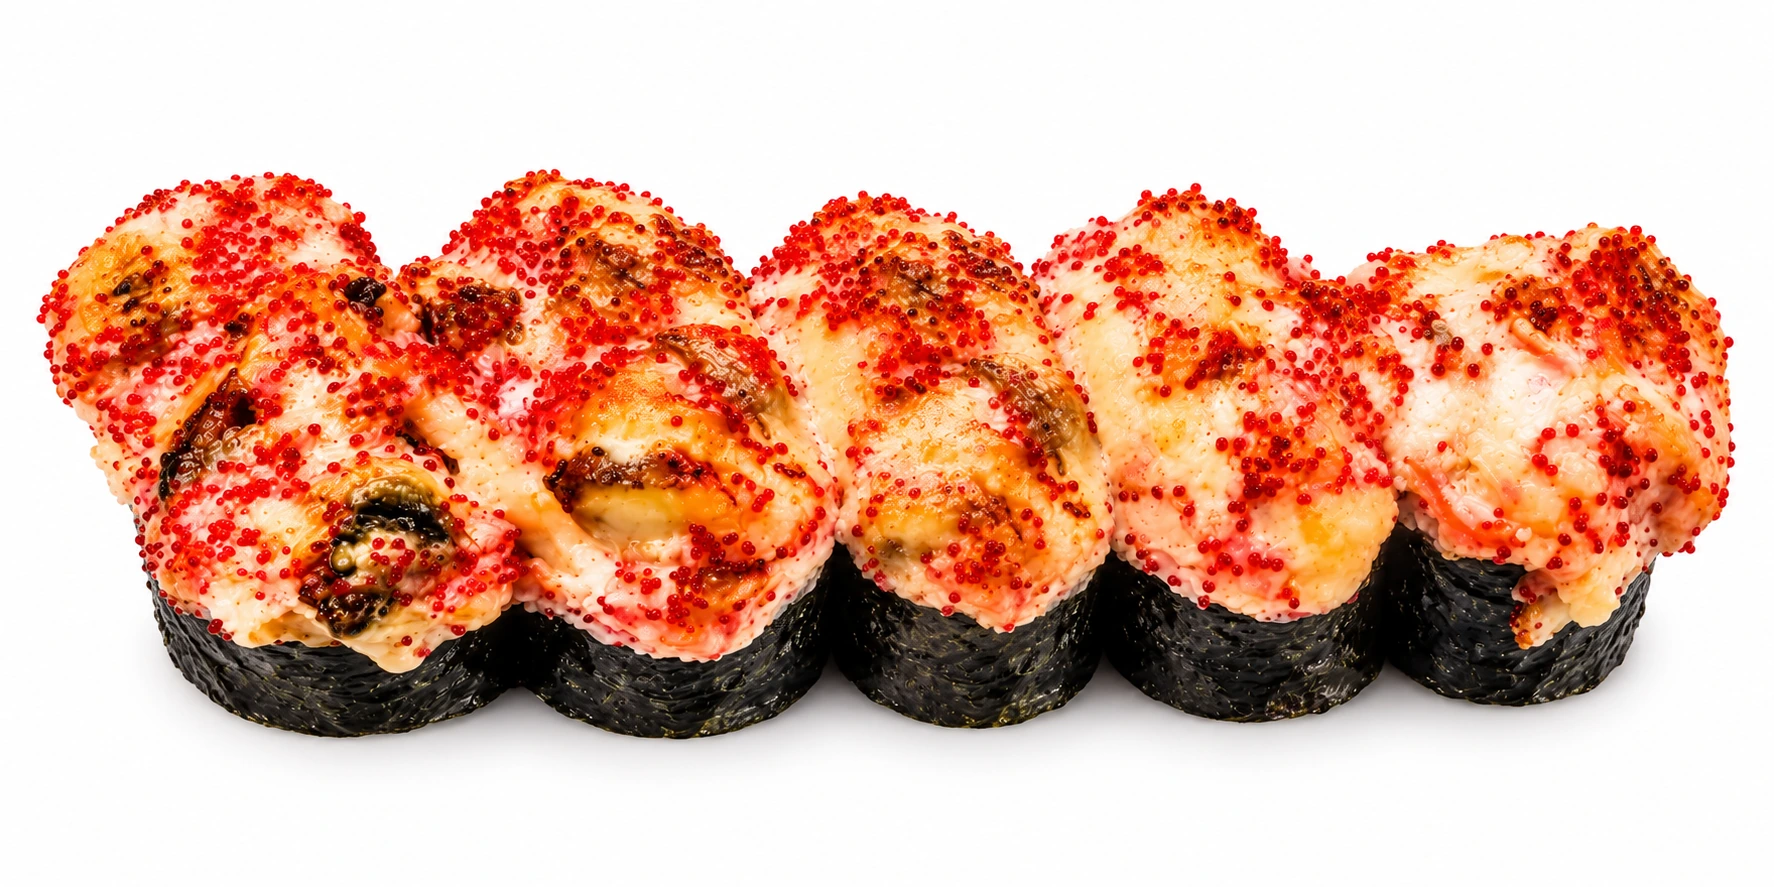
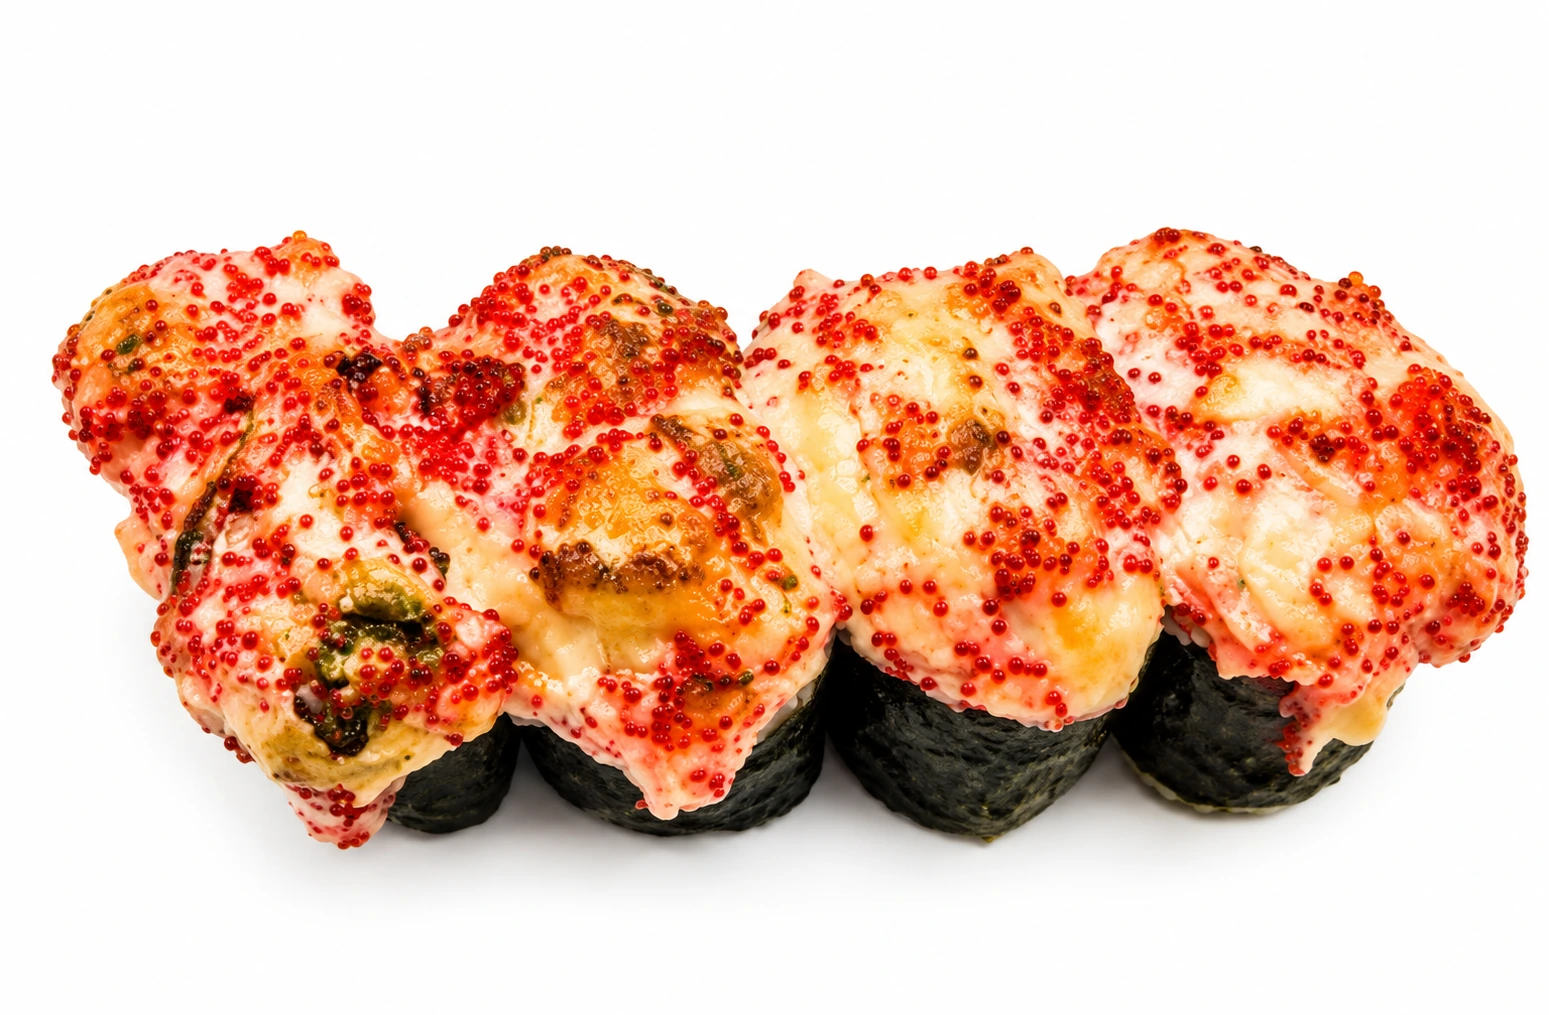
Correct sushi grill serving image

diff --git a/app.js b/app.js
@@ -172,12 +172,12 @@
   function deliveryCost(){return fulfillment()==='pickup'||subtotal()>=990||subtotal()===0?0:200}
   function productById(id){return products.find(function(p){return p.id===id})}
   function renderCategories(){els.categories.innerHTML=categories.map(function(cat){return '<button type="button" class="category-pill'+(cat===state.category?' active':'')+'" data-category="'+escapeHtml(cat)+'">'+escapeHtml(cat)+'</button>'}).join('')}
-  function renderProducts(){var filtered=products.filter(function(p){var q=state.search.trim().toLocaleLowerCase('ru');var matchesCategory=!!q||state.category==='Все меню'||p.category===state.category;var matchesSearch=!q||(p.name+' '+p.description+' '+p.category).toLocaleLowerCase('ru').indexOf(q)>=0;return matchesCategory&&matchesSearch});els.title.textContent=state.search?'Результаты':state.category;els.count.textContent=filtered.length+' поз.';if(!filtered.length){els.grid.innerHTML='<div class="empty-state">Ничего не найдено. Попробуйте другое название.</div>';return}els.grid.innerHTML=filtered.map(function(p){var redrawn=!!redrawnProductIds[p.id];var stem='assets/dishes/'+p.id,photo=stem+(redrawn?'-redrawn':'')+'.webp?v=20261021sushigrill1',fallback=stem+(redrawn?'-redrawn.png':'.jpg');return '<article class="product-card"><div class="product-visual"><img class="product-photo" src="'+photo+'" data-image-fallback="'+fallback+'" alt="'+escapeHtml(p.name)+'" loading="lazy"></div>'+(p.tag?'<span class="card-tag">'+escapeHtml(p.tag)+'</span>':'')+'<h3>'+escapeHtml(p.name)+'</h3>'+(p.description?'<p>'+escapeHtml(p.description)+'</p>':'')+'<div class="product-bottom"><span class="product-price">'+money(p.price)+'<small class="product-weight">'+escapeHtml(p.weight)+'</small></span><span class="product-quantity"><button class="add-button quantity-minus" type="button" data-id="'+p.id+'" data-step="-1" aria-label="Уменьшить количество '+escapeHtml(p.name)+'"'+(quantity(p.id)?'':' hidden')+'>−</button><b class="quantity-value"'+(quantity(p.id)?'':' hidden')+'>'+quantity(p.id)+'</b><button class="add-button" type="button" data-add="'+p.id+'" aria-label="Добавить '+escapeHtml(p.name)+' в корзину">+</button></span></div></article>'}).join('')}
+  function renderProducts(){var filtered=products.filter(function(p){var q=state.search.trim().toLocaleLowerCase('ru');var matchesCategory=!!q||state.category==='Все меню'||p.category===state.category;var matchesSearch=!q||(p.name+' '+p.description+' '+p.category).toLocaleLowerCase('ru').indexOf(q)>=0;return matchesCategory&&matchesSearch});els.title.textContent=state.search?'Результаты':state.category;els.count.textContent=filtered.length+' поз.';if(!filtered.length){els.grid.innerHTML='<div class="empty-state">Ничего не найдено. Попробуйте другое название.</div>';return}els.grid.innerHTML=filtered.map(function(p){var redrawn=!!redrawnProductIds[p.id];var stem='assets/dishes/'+p.id,photo=stem+(redrawn?'-redrawn':'')+'.webp?v=20261021sushigrill2',fallback=stem+(redrawn?'-redrawn.png':'.jpg');return '<article class="product-card"><div class="product-visual"><img class="product-photo" src="'+photo+'" data-image-fallback="'+fallback+'" alt="'+escapeHtml(p.name)+'" loading="lazy"></div>'+(p.tag?'<span class="card-tag">'+escapeHtml(p.tag)+'</span>':'')+'<h3>'+escapeHtml(p.name)+'</h3>'+(p.description?'<p>'+escapeHtml(p.description)+'</p>':'')+'<div class="product-bottom"><span class="product-price">'+money(p.price)+'<small class="product-weight">'+escapeHtml(p.weight)+'</small></span><span class="product-quantity"><button class="add-button quantity-minus" type="button" data-id="'+p.id+'" data-step="-1" aria-label="Уменьшить количество '+escapeHtml(p.name)+'"'+(quantity(p.id)?'':' hidden')+'>−</button><b class="quantity-value"'+(quantity(p.id)?'':' hidden')+'>'+quantity(p.id)+'</b><button class="add-button" type="button" data-add="'+p.id+'" aria-label="Добавить '+escapeHtml(p.name)+' в корзину">+</button></span></div></article>'}).join('')}
   function renderDock(){var count=cartCount(),badge=document.getElementById('cartBadge'),dock=document.getElementById('cartDock');badge.hidden=count===0;badge.textContent=count;document.getElementById('drawerCartCount').textContent=count?count+' '+plural(count,['товар','товара','товаров']):'Пусто';dock.hidden=count===0;document.body.classList.toggle('cart-visible',count>0);document.getElementById('dockCartCount').textContent=count+' '+plural(count,['товар','товара','товаров']);document.getElementById('dockCartTotal').textContent=money(subtotal())}
   function plural(n,forms){var a=n%10,b=n%100;return forms[(b>=11&&b<=14)?2:(a===1?0:(a>=2&&a<=4?1:2))]}
   function updatePersonOptions(sub){var select=document.getElementById('personsSelect');if(!select)return;var max=sub>1000?10:4,current=Number(select.value)||1;select.innerHTML=Array.from({length:max},function(_,i){return '<option value="'+(i+1)+'">'+(i+1)+' '+plural(i+1,['персона','персоны','персон'])+'</option>'}).join('');select.value=String(Math.min(current,max));}
   function renderCart(){var lines=Object.keys(state.cart).map(function(id){var p=productById(id);if(!p||!quantity(id))return '';return '<div class="cart-row"><div><h3>'+escapeHtml(p.name)+'</h3><small>'+money(p.price)+' · '+escapeHtml(p.weight)+'</small></div><div class="quantity-control"><button type="button" data-step="-1" data-id="'+p.id+'" aria-label="Уменьшить">−</button><span>'+quantity(id)+'</span><button type="button" data-step="1" data-id="'+p.id+'" aria-label="Добавить">+</button></div><strong class="row-price">'+money(p.price*quantity(id))+'</strong></div>'}).join('');document.getElementById('cartItems').innerHTML=lines||'<div class="empty-state">Корзина пока пуста</div>';var sub=subtotal(),ship=sub>=990?0:200;updatePersonOptions(sub);document.getElementById('subtotal').textContent=money(sub);document.getElementById('deliveryCost').textContent=fulfillment()==='pickup'||sub===0?'0 ₽':(ship===0?'Бесплатно':money(ship));document.getElementById('grandTotal').textContent=money(sub+deliveryCost());document.getElementById('checkoutTotal').textContent=money(sub+deliveryCost());document.getElementById('shippingNote').textContent=fulfillment()==='pickup'?'Самовывоз: ул. Некрасова, 59. Минимальной суммы заказа нет.':sub>=990?'Доставка бесплатная — корзина от 990 ₽.':'Добавьте ещё на '+money(990-sub)+' для бесплатной доставки. Доставка сейчас — 200 ₽.';document.getElementById('toCheckout').disabled=sub===0;}
-  function renderSheets(){if(!els.sheets.dataset.ready){els.sheets.innerHTML=menuSheets.map(function(sheet,index){return '<button class="menu-sheet-card" type="button" data-sheet="'+index+'"><span class="menu-sheet-frame"><img src="'+sheet.file+'?v=20261021sushigrill1" data-image-fallback="'+sheet.file.replace(/\.jpg$/i,'.png')+'" alt="'+escapeHtml(sheet.alt)+'" loading="lazy"></span><span class="menu-sheet-caption"><b>'+escapeHtml(sheet.title)+'</b><small>Открыть лист меню ↗</small></span></button>'}).join('');els.sheets.dataset.ready='true'}els.grid.hidden=state.view==='sheets';els.sheets.hidden=state.view!=='sheets';document.querySelector('.results-line').hidden=false;if(state.view==='sheets'){els.title.textContent='Все листы меню';els.count.textContent=menuSheets.length+' фото'}}
+  function renderSheets(){if(!els.sheets.dataset.ready){els.sheets.innerHTML=menuSheets.map(function(sheet,index){return '<button class="menu-sheet-card" type="button" data-sheet="'+index+'"><span class="menu-sheet-frame"><img src="'+sheet.file+'?v=20261021sushigrill2" data-image-fallback="'+sheet.file.replace(/\.jpg$/i,'.png')+'" alt="'+escapeHtml(sheet.alt)+'" loading="lazy"></span><span class="menu-sheet-caption"><b>'+escapeHtml(sheet.title)+'</b><small>Открыть лист меню ↗</small></span></button>'}).join('');els.sheets.dataset.ready='true'}els.grid.hidden=state.view==='sheets';els.sheets.hidden=state.view!=='sheets';document.querySelector('.results-line').hidden=false;if(state.view==='sheets'){els.title.textContent='Все листы меню';els.count.textContent=menuSheets.length+' фото'}}
   function renderViewTabs(){document.querySelectorAll('[data-view]').forEach(function(button){var active=button.dataset.view===state.view;button.classList.toggle('active',active);button.setAttribute('aria-selected',active?'true':'false')})}
   function render(){renderCategories();renderProducts();renderSheets();renderViewTabs();renderDock();if(!els.overlay.hidden)renderCart()}
   function add(id,step){var next=quantity(id)+(step||1);if(next<=0)delete state.cart[id];else state.cart[id]=next;saveCart();render();if(els.overlay.hidden)toast('Добавили в корзину')}
@@ -216,7 +216,7 @@
   function setFulfillment(){var pickup=fulfillment()==='pickup',address=document.getElementById('deliveryAddressInput');document.getElementById('addressField').hidden=pickup;address.required=!pickup;if(pickup)address.setCustomValidity('');document.getElementById('pickupAddress').hidden=!pickup;fillSlots();renderCart()}
   function initDeliveryAddressSuggestions(){var input=document.getElementById('deliveryAddressInput'),hint=document.getElementById('deliveryAddressHint'),config=window.SAKURA_MAPS_CONFIG||{};if(!input)return;input.addEventListener('input',function(){input.dataset.addressSuggestion='';input.setCustomValidity('')});if(!config.yandexApiKey||!config.yandexSuggestApiKey){hint.textContent='Подсказки Яндекс Карт включатся после добавления ключей в maps-config.js.';return}window.sakuraYandexSuggestReady=function(ymaps){ymaps.ready(function(){var suggest=new ymaps.SuggestView(input,{results:6,boundedBy:[[50.58,38.62],[50.69,38.78]]});suggest.events.add('select',function(e){var item=e.get('item'),value=item&&item.value?String(item.value):'';if(!/алексеевка/i.test(value))value='Алексеевка, '+value;input.value=value;input.dataset.addressSuggestion='yandex';input.setCustomValidity('')});hint.textContent='Начните вводить улицу и дом в Алексеевке, затем выберите подсказку.'})};var script=document.createElement('script');script.src='https://api-maps.yandex.ru/2.1/?lang=ru_RU&load=SuggestView&apikey='+encodeURIComponent(config.yandexApiKey)+'&suggest_apikey='+encodeURIComponent(config.yandexSuggestApiKey)+'&onload=sakuraYandexSuggestReady';script.async=true;script.onerror=function(){hint.textContent='Не удалось загрузить подсказки адресов. Укажите город, улицу и дом вручную.'};document.head.appendChild(script)}
   document.addEventListener('error',function(e){var img=e.target;if(img&&img.tagName==='IMG'&&img.dataset.imageFallback&&!img.dataset.imageFallbackTried){img.dataset.imageFallbackTried='true';img.src=img.dataset.imageFallback}},true);
-  document.addEventListener('click',function(e){var cat=e.target.closest('[data-category]');if(cat){state.category=cat.dataset.category;state.view='products';render();return}var view=e.target.closest('[data-view]');if(view){state.view=view.dataset.view;render();return}var sheet=e.target.closest('[data-sheet]');if(sheet){var selected=menuSheets[Number(sheet.dataset.sheet)];if(selected){els.largeImage.dataset.imageFallback=selected.file.replace(/\.jpg$/i,'.png');delete els.largeImage.dataset.imageFallbackTried;els.largeImage.src=selected.file+'?v=20261021sushigrill1';els.largeImage.alt=selected.alt;els.imageViewer.hidden=false;document.body.classList.add('modal-open')}return}if(e.target.closest('#closeImageViewer')||e.target===els.imageViewer){els.imageViewer.hidden=true;els.largeImage.removeAttribute('src');els.largeImage.removeAttribute('data-image-fallback');delete els.largeImage.dataset.imageFallbackTried;document.body.classList.remove('modal-open');return}var addButton=e.target.closest('[data-add]');if(addButton){add(addButton.dataset.add,1);return}var step=e.target.closest('[data-step]');if(step){add(step.dataset.id,Number(step.dataset.step));return}if(e.target.closest('#openCart')){showCart();return}if(e.target.closest('#closeSheet')||e.target===els.overlay){closeCart();return}if(e.target.closest('#toCheckout')){if(!cartCount())return;els.cartView.hidden=true;els.checkoutView.hidden=false;fillCheckoutProfile();fillSlots();renderCart();return}if(e.target.closest('#backToCart')){els.checkoutView.hidden=true;els.cartView.hidden=false;renderCart();return}var legal=e.target.closest('[data-legal]');if(legal){e.preventDefault();toast('Текст '+(legal.dataset.legal==='policy'?'политики':'оферты')+' нужно утвердить перед запуском');return}if(e.target.closest('#locationButton'))toast('Зона обслуживания: Алексеевка')});
+  document.addEventListener('click',function(e){var cat=e.target.closest('[data-category]');if(cat){state.category=cat.dataset.category;state.view='products';render();return}var view=e.target.closest('[data-view]');if(view){state.view=view.dataset.view;render();return}var sheet=e.target.closest('[data-sheet]');if(sheet){var selected=menuSheets[Number(sheet.dataset.sheet)];if(selected){els.largeImage.dataset.imageFallback=selected.file.replace(/\.jpg$/i,'.png');delete els.largeImage.dataset.imageFallbackTried;els.largeImage.src=selected.file+'?v=20261021sushigrill2';els.largeImage.alt=selected.alt;els.imageViewer.hidden=false;document.body.classList.add('modal-open')}return}if(e.target.closest('#closeImageViewer')||e.target===els.imageViewer){els.imageViewer.hidden=true;els.largeImage.removeAttribute('src');els.largeImage.removeAttribute('data-image-fallback');delete els.largeImage.dataset.imageFallbackTried;document.body.classList.remove('modal-open');return}var addButton=e.target.closest('[data-add]');if(addButton){add(addButton.dataset.add,1);return}var step=e.target.closest('[data-step]');if(step){add(step.dataset.id,Number(step.dataset.step));return}if(e.target.closest('#openCart')){showCart();return}if(e.target.closest('#closeSheet')||e.target===els.overlay){closeCart();return}if(e.target.closest('#toCheckout')){if(!cartCount())return;els.cartView.hidden=true;els.checkoutView.hidden=false;fillCheckoutProfile();fillSlots();renderCart();return}if(e.target.closest('#backToCart')){els.checkoutView.hidden=true;els.cartView.hidden=false;renderCart();return}var legal=e.target.closest('[data-legal]');if(legal){e.preventDefault();toast('Текст '+(legal.dataset.legal==='policy'?'политики':'оферты')+' нужно утвердить перед запуском');return}if(e.target.closest('#locationButton'))toast('Зона обслуживания: Алексеевка')});
   document.addEventListener('click',function(e){var close=e.target.closest('[data-close]');if(close){closeSimple(close.dataset.close);return}if(e.target===els.phone){closeSimple('phone');return}if(e.target===els.profile){closeSimple('profile');return}if(e.target.closest('#toggleOrderArchive')){adminShowArchive=!adminShowArchive;renderAdminOrderList(document.getElementById('profileContent'));return}if(e.target.closest('#downloadOrderArchive')){downloadOrderArchive();return}if(e.target.closest('#reloadAdminOrders')||e.target.closest('#reloadCustomerOrders')){renderProfile();return}if(e.target.closest('#headerCartButton')||e.target.closest('[data-action="cart"]')){toggleDrawer(false);showCart();return}if(e.target.closest('#phoneButton')||e.target.closest('[data-action="phones"]')){openPhones();return}if(e.target.closest('#menuButton')){toggleDrawer(true);return}if(e.target.closest('#closeDrawer')||e.target===els.drawer){toggleDrawer(false);return}var route=e.target.closest('[data-route]');if(route){routePage(route.dataset.route);return}var drawerCategory=e.target.closest('[data-drawer-category]');if(drawerCategory){state.category=drawerCategory.dataset.drawerCategory;toggleDrawer(false);routePage('catalog');return}var profileTab=e.target.closest('[data-profile-view]');if(profileTab){showProfile(profileTab.dataset.profileView);return}if(e.target.closest('[data-action="admin"]')){showProfile('admin');return}if(e.target.closest('[data-action="profile"]')){showProfile('orders');return}});
   els.search.addEventListener('input',function(){state.search=els.search.value;els.clear.hidden=!state.search;renderProducts()});document.getElementById('clearSearch').addEventListener('click',function(){els.search.value='';state.search='';els.clear.hidden=true;renderProducts();els.search.focus()});document.querySelectorAll('input[name="fulfillment"]').forEach(function(el){el.addEventListener('change',setFulfillment)});
   document.getElementById('checkoutForm').addEventListener('submit',async function(e){e.preventDefault();var address=document.getElementById('deliveryAddressInput');if(fulfillment()==='delivery'&&address.value.trim()){var value=address.value.trim();if(!/алексеевка/i.test(value))value='Алексеевка, '+value;var streetHouse=value.replace(/алексеевка/ig,'').trim();if(!/\d/.test(streetHouse)||!/[а-яёa-z]/i.test(streetHouse)){address.setCustomValidity('Укажите улицу и номер дома в Алексеевке.');address.reportValidity();return}address.value=value;address.setCustomValidity('')}if(!e.currentTarget.reportValidity())return;var base=backendBaseUrl();if(!base){toast('Подключение приёма заказов ещё не завершено.');return}if(!window.location.search){toast('Откройте приложение внутри ВКонтакте, чтобы оформить заказ.');return}var form=new FormData(e.currentTarget),items=Object.keys(state.cart).map(function(id){return quantity(id)?{id:id,quantity:quantity(id)}:null}).filter(Boolean),sub=subtotal(),fee=deliveryCost(),orders=readOrders(),order={id:'SK-'+Date.now().toString().slice(-7),createdAt:new Date().toISOString(),status:'new',name:String(form.get('name')||'').trim(),phone:String(form.get('phone')||'').trim(),fulfillment:fulfillment(),address:fulfillment()==='pickup'?'Алексеевка, ул. Некрасова, 59':address.value.trim(),slot:String(form.get('slot')||''),payment:({cash:'Наличными',card:'Картой при получении',transfer:'Переводом после подтверждения'})[form.get('payment')]||'',persons:Number(form.get('persons'))||1,comment:String(form.get('comment')||'').trim(),notifyStatus:statusMessagesAllowed,items:items,subtotal:sub,delivery:fee,total:sub+fee};var submit=e.currentTarget.querySelector('[type="submit"]');submit.disabled=true;try{var response=await fetch(base+'/orders',{method:'POST',headers:vkAuthorizationHeaders({'content-type':'application/json'}),body:JSON.stringify(order)}),result={};try{result=await response.json()}catch(error){}if(!response.ok||!result.ok){var failure=new Error('order_failed');failure.apiError=result.error||'unknown';failure.status=response.status;throw failure}order.id=result.orderId||order.id;try{var savedProfile=readProfile();savedProfile.name=order.name;savedProfile.phone=order.phone;localStorage.setItem('sakura-profile',JSON.stringify(savedProfile))}catch(profileError){}orders.unshift(order);saveOrders(orders);state.cart={};saveCart();render();closeCart();toast('Заказ оформлен. С вами скоро свяжутся для подтверждения.')}catch(error){var message='Не удалось отправить заказ. Корзина сохранена — попробуйте ещё раз.';if(error&&error.apiError==='test_orders_staff_only')message='Оформление заказов сейчас доступно только сотрудникам теста.';else if(error&&error.apiError==='orders_temporarily_disabled')message='Приём заказов временно выключен.';else if(error&&error.apiError==='vk_auth_required')message='VK не передал данные запуска. Закройте и откройте приложение внутри VK.';else if(error&&error.apiError==='invalid_order')message='Проверьте данные заказа и обновите меню. Корзина сохранена.';else if(!error.apiError)message='Не удалось связаться с сервером. Проверьте интернет и доступ VK; корзина сохранена.';toast(message)}finally{submit.disabled=false}});

diff --git a/index.html b/index.html
@@ -155,7 +155,7 @@
   <div class="toast" id="toast" role="status" aria-live="polite"></div>
   <script src="maps-config.js"></script>
   <script src="backend-config.js"></script>
-  <script src="app.js?v=20261021sushigrill1"></script>
+  <script src="app.js?v=20261021sushigrill2"></script>
 </body>
 </html>
 
